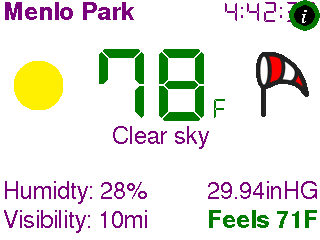
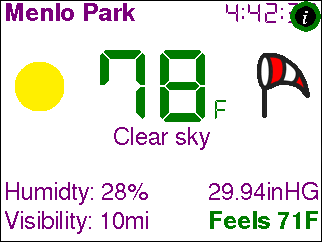
One more crack at image borders where needed

diff --git a/doc/MultiMonGUI.md b/doc/MultiMonGUI.md
@@ -69,11 +69,11 @@ The time screen is the the primary/home screen. It provides a clock, overview st
 	* **Printing**: In which case the area displays a progress bar with percent complete
 	* **Unused**: Meaning that printer has not been configured
 
-<img src="images/ss/HomeScreen_3Prints.png" border="1">
-<img src="images/ss/HomeScreen_Mixed.png" border="1">
-<img src="images/ss/HomeScreen_Unused.png" border="1">
-<img src="images/ss/HomeScreen_UIW.png" border="1">
-<img src="images/ss/HomeScreen_UIP.png" border="1">
+![](images/ss/HomeScreen_3Prints.png)
+![](images/ss/HomeScreen_Mixed.png)
+![](images/ss/HomeScreen_Unused.png)
+![](images/ss/HomeScreen_UIW.png)
+![](images/ss/HomeScreen_UIP.png)
 
 **Actions**:
 
@@ -135,8 +135,7 @@ The weather screen shows current weather information form [OpenWeatherMap.org](h
 
 The units (metric or imperial) are configured in the Web UI.
 
-<img src="images/ss/WeatherScreen_II.png" border="1">  
-
+![](images/ss/WeatherScreen_II.png)  
 *Note*: This shot shows the info icon in the upper right corner. It is occluding the seconds area of the time display.
 
 **Actions**:
@@ -149,7 +148,7 @@ The units (metric or imperial) are configured in the Web UI.
 
 The Forecast Screen uses [OpenWeatherMap.org](http://OpenWeatherMap.org) to get the forecast for the city that was configured using the Web UI. The forecast is arranged in two columns. The left column shows the forecast for the next three 3-hour periods. The right column shows the forecast for the next three days. Each cell shows an icon representing the weather condition (e.g. Sunny or Rain), the day and hour of the forecast, and the temperature. The forecast cells for the next 3 days show the high and low predicted temperature for that day.
 
-<img src="images/ss/ForecastScreen.png" border="1">  
+![](images/ss/ForecastScreen.png)
 
 **Actions**:
 
